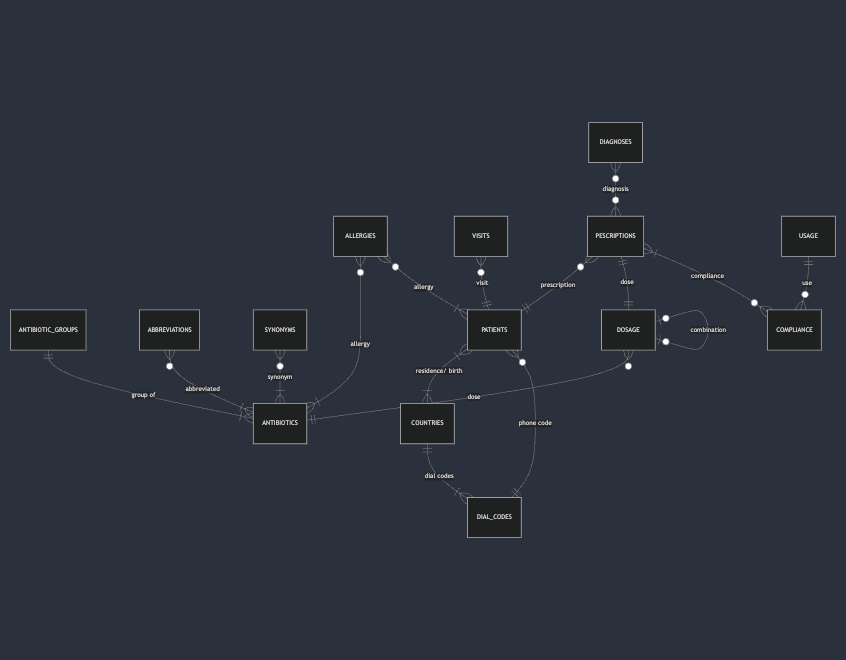
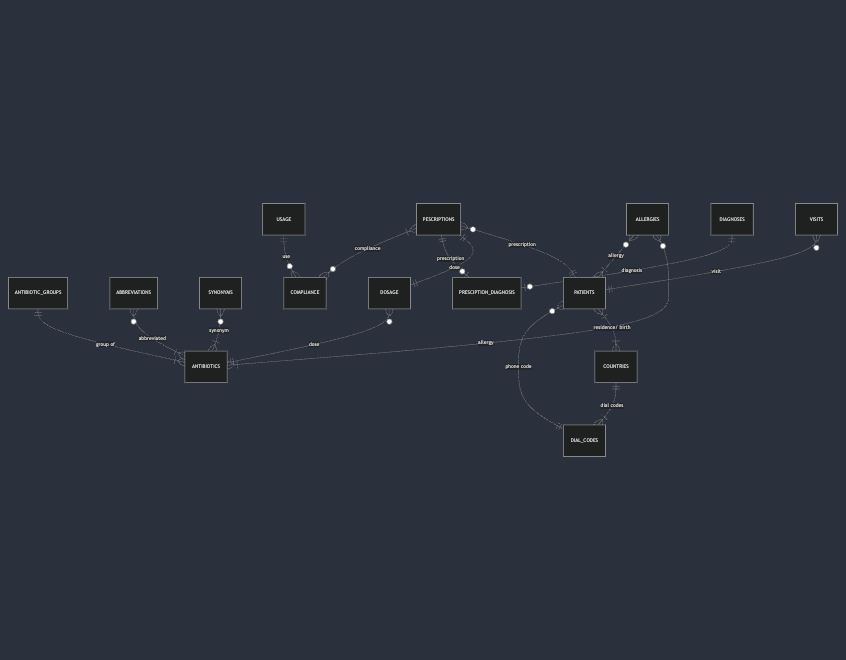
make a separate table to relate prescription to diagnosis

diff --git a/dataset_files/common_usage.py b/dataset_files/common_usage.py
@@ -5,32 +5,49 @@ This dataset is used as a template to populate the diagnosis table of the databa
 However, the dataset contains redundant and repetitive categorisation.
 Thus, after separating the uniquely listed usage, the file was manually removed of repetitive diagnosis
 '''
+def separate_data():
+    abx_list = pd.read_csv('antibiotics_list.csv')
+    abx_list = abx_list['Usage'].unique()
 
-abx_list = pd.read_csv('antibiotics_list.csv')
-abx_list = abx_list['Usage'].unique()
-
-new_list = []
-for x in abx_list:
-    if '(' in x:
-        bracket_prefix = x[: x.index('(')]
-        in_brackets = x[x.index('(') + 1 : x.index(')')]
-        not_in_brackets = x[x.index(')') + 1 :].strip()
-        
-        for item in in_brackets.split(','):
-            if len(item) != 0:
-                new_list.append(bracket_prefix.strip() + ' ' + item.strip())
-        
-        if len(not_in_brackets) != 0:
-            for item in not_in_brackets.split(','):
-                if len(item) != 0:
-                    new_list.append(item.strip())
-    else:
-        for item in x.split(','):
-            new_list.append(item.strip())
+    new_list = []
+    for x in abx_list:
+        if '(' in x:
+            bracket_prefix = x[: x.index('(')]
+            in_brackets = x[x.index('(') + 1 : x.index(')')]
+            not_in_brackets = x[x.index(')') + 1 :].strip()
             
-new_list = set(new_list)
+            for item in in_brackets.split(','):
+                if len(item) != 0:
+                    new_list.append(bracket_prefix.strip() + ' ' + item.strip())
+            
+            if len(not_in_brackets) != 0:
+                for item in not_in_brackets.split(','):
+                    if len(item) != 0:
+                        new_list.append(item.strip())
+        else:
+            for item in x.split(','):
+                new_list.append(item.strip())
+                
+    new_list = set(new_list)
 
-df = pd.DataFrame(new_list, columns=['Usage'])
-df['Usage'] = df['Usage'].apply(str.upper)
-df.drop_duplicates(inplace=True)
-df.to_csv('common_usage.csv', index=False)
+    df = pd.DataFrame(new_list, columns=['Usage'])
+    df['Usage'] = df['Usage'].apply(str.upper)
+    df.drop_duplicates(inplace=True)
+    df.to_csv('common_usage.csv', index=False)
+
+def input_diagnoses_to_table(cursor):
+    diagnoses = pd.read_csv('common_usage.csv')
+    insert_diagnoses = 'INSERT INTO diagnoses (diagnosis) VALUES (?);'
+    
+    error = []
+    for index, row in diagnoses.iterrows():
+        diagnosis = row['Usage']
+        try:
+            cursor.execute(insert_diagnoses, (diagnosis,))
+        except Exception as e:
+            error.append(e)
+            
+    if len(error) == 0:
+        return None
+    else:
+        return error

diff --git a/dataset_files/input_to_table.py b/dataset_files/input_to_table.py
@@ -1,0 +1,24 @@
+import environ
+import mysql.connector
+import os
+import pandas as pd
+from pathlib import Path
+from common_usage import input_diagnoses_to_table
+
+env = environ.Env(
+    DEBUG=(bool, False)
+)
+BASE_DIR = Path(__file__).resolve().parent.parent
+
+environ.Env.read_env(os.path.join(BASE_DIR, 'database/.env'))
+
+mydb = mysql.connector.connect(
+    host = env('DB_HOST'),
+    user = env('DB_USER'),
+    password = env('DB_PASSWORD'),
+    database = env('DB_DB'),
+)
+m = mydb.cursor(prepared=True)
+
+diagnosis_err = input_diagnoses_to_table(m)
+print(diagnosis_err)

diff --git a/DESIGN.md b/DESIGN.md
@@ -256,17 +256,17 @@ Added constraint between `patient_id` and `ab` so that no duplicate of the same 
 - `patient_id`
     - Foreign Key referencing the `id` column in the `patients` table
 - `visit_date`
-    - `DATE DEFAULT NOT NULL`
-    - Note the date of the patient's visit. The default is the current date, but otherwise the user can input visit of the patient from previous date
-- `updated_timestamp`
-    - `DATETIME DEFAULT CURRENT_TIMESTAMP`
+    - `DATE NOT NULL`
+    - The date of the patient's visit.
+- `last_modified`
+    - `DATETIME DEFAULT CURRENT_TIMESTAMP ON UPDATE CURRENT_TIMESTAMP`
     - The timestamp will automatically update with every update on the row.
 - `note`
     - Record of the complaint, signs and symptom of the patient, as well as any note of any treatment done during this visit.
     - `VARCHAR(5000)`
 - `deleted`
     - 0 for false, 1 for true
-    - `ENUM(0,1) DEFAULT 0` 
+    - `TINYINT UNSIGNED CHECK(deleted = 1 OR deleted = 0) DEFAULT 0`
 
 The `visits` table purposed is to collect information on the signs and symptoms of the patient.
 For accountability:
@@ -278,23 +278,21 @@ For accountability:
 <details>
 <summary>List of antibiotics prescribed or previously prescribed to patients</summary>
 
+- `id`
+    - Primary Key
+    - `INT UNSIGNED NOT NULL UNIQUE AUTO_INCREMENT`
 - `patient_id`
     - Foreign Key referencing the `id` column in the `patients` table 
+    - `INT UNSIGNED NOT NULL`
 - `dose_id`
     - Foreign Key referencing the `id` column in the `dosage` table 
-    - Default NULL
 - `prescription_date`
-    - `DATE DEFAULT NOW`
-- `timestamp`
-    - `DATETIME DEFAULT CURRENT_TIMESTAMP`
+    - `DATE NOT NULL`
+- `last_modified`
+    - `DATETIME DEFAULT CURRENT_TIMESTAMP ON UPDATE CURRENT_TIMESTAMP`
 - `deleted`
     - 0 for false, 1 for true
-    - `ENUM(0,1) DEFAULT 0` 
-- `diagnosis_id`
-    - Default NULL
-- `deleted`
-    - 0 for false, 1 for true
-    - `ENUM(0,1) DEFAULT 0` 
+    - `TINYINT UNSIGNED CHECK(deleted = 1 OR deleted = 0) DEFAULT 0`
 
 The purpose of this table is to record antibiotics prescribed to the patient by the current user or previously taken by the patients.
 Often patients did not know what or why they were prescribed antibiotics, this also includes those who took antibiotics without prescriptions. Thus, the `dose_id` and `diagnosis_id` is allowed `NULL` so that it can be further investigated in the future.
@@ -307,8 +305,24 @@ Often patients did not know what or why they were prescribed antibiotics, this a
 
 - `id`
     - Primary Key
+    - `SMALLINT UNSIGNED NOT NULL UNIQUE AUTO_INCREMENT`
 - `diagnosis`
     - `VARCHAR(64) NOT NULL`
+
+</details>
+
+`prescription_diagnosis`
+<summary>The diagnoses for why the medication was prescribed</summary>
+
+A prescription could be prescribed with no diagnosis or multiple diagnoses.
+- `diagnosis_id`
+    - Foreign Key referencing the `id` column in the `diagnoses` table 
+- `prescription_id`
+    - Foreign Key referencing the `id` column in the `prescription` table 
+
+`PRIMARY KEY(diagnosis_id, prescription_id)` constraint added so that one prescription does not have duplicate of the same diagnosis
+
+<details>
 
 </details>
 
